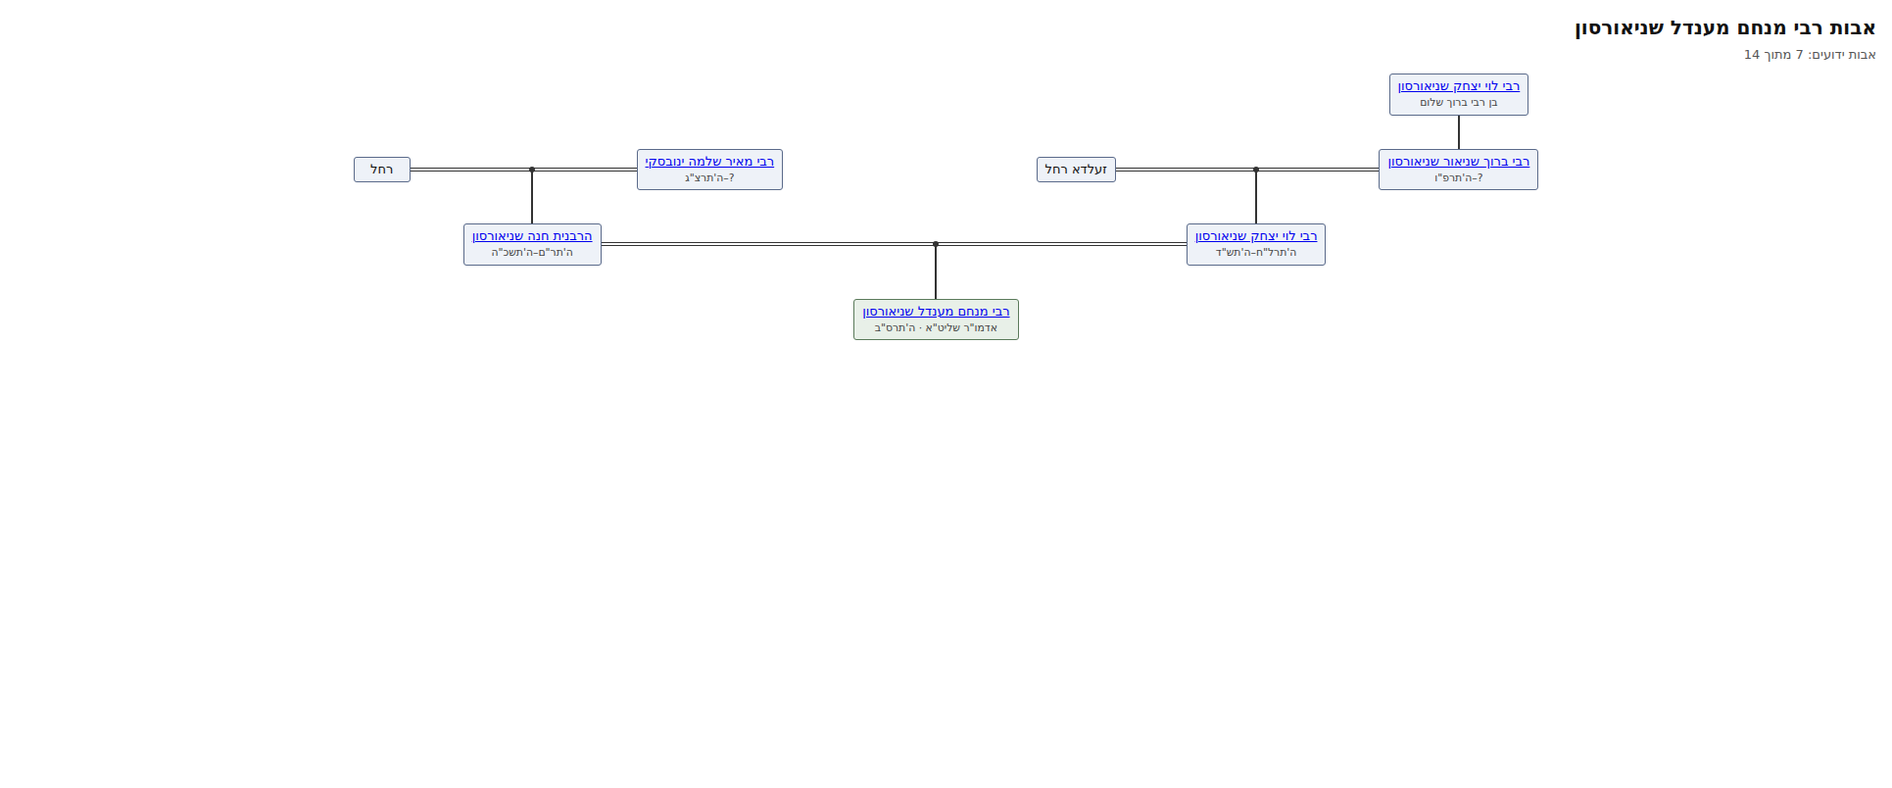
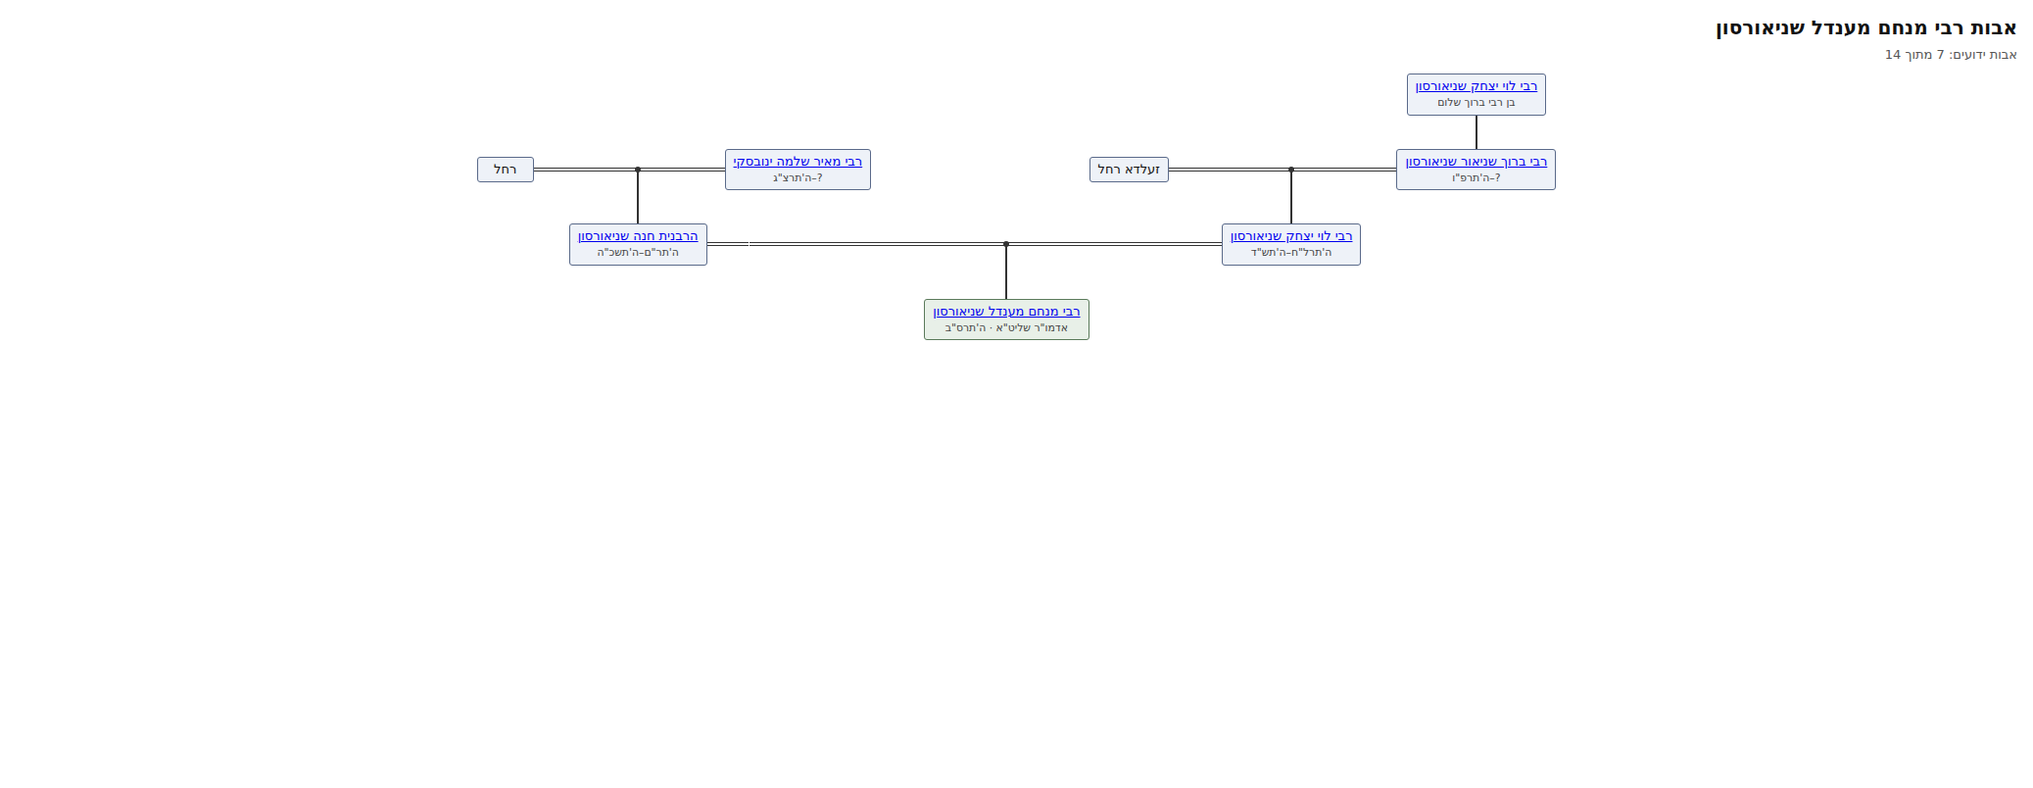
גאומטריית מרצפות לפי קוד תבנית:עץ משפחה
- תיבת טקסט תופסת 3 מרצפות והקווים מתחברים למרצפת האמצעית
- מפת הסמלים המלאה מקוד התבנית: ! - ~ ד ז ^ + ) ( . , ' `
- מספר ילדים זוגי: הצומת בין שני האמצעיים (^) במקום זרוע מיותרת
- זוג: A |ד| B כמו בתיעוד; עץ אבות עם ~ בין ההורים
- תצוגה מקדימה עם תיבות ברוחב 3 מרצפות; בדיקות מעודכנות

Claude-Session: https://claude.ai/code/session_017HqCkdqQ3tgQfGuff3kC6e

diff --git a/chabadtrees/layout.py b/chabadtrees/layout.py
@@ -59,7 +59,7 @@ class Chart:
 
     def put(self, row: int, col: int, cell: Cell) -> None:
         self.cells[(row, col)] = cell
-        self.width = max(self.width, col + 1)
+        self.width = max(self.width, col + (2 if cell.kind == "box" else 1))
         self.height = max(self.height, row + 1)
 
 
@@ -182,6 +182,7 @@ def layout_forest(roots: list[TreeNode], box_ids: dict, gap: int = 1, spouse_sty
                 chart.add_line(r, c + col, cell.dirs)
             else:
                 chart.put(r, c + col, cell)
+        chart.width = max(chart.width, col + block.width)
         col += block.width + gap
     return chart
 
@@ -213,40 +214,50 @@ def _box_id(box_ids: dict, chart: Chart, person: str, role: str, node: TreeNode)
     return bid
 
 
+BOX_W = 3   # תיבת טקסט = 3 מרצפות; הקווים מתחברים למרצפת האמצעית
+
+
 def _block(node: TreeNode, conn_rows: dict[int, int], box_ids: dict, chart: Chart, spouse_boxes: bool = True,
            spouse_boxes_below_root: bool = False) -> Block:
-    """בלוק של אדם: שורת בני הזוג, שורות החיבור, ובלוקי הילדים.
+    """בלוק של אדם, במרצפות: שורת בני הזוג, שורות החיבור, ובלוקי הילדים.
 
-    קופסאות בני זוג: ``A |~|ד|~| B`` (כמו באתר). בלי קופסאות (inline) – רק הקופסה של האדם, והילדים
-    יורדים ממנה ישירות. הצומת/הקופסה ממוקמים בדיוק מעל הילד האמצעי, כך שתא החיבור הוא ``+``
-    (או ``!`` לילד יחיד) ואין צורך בסמלי T שלא אומתו.
+    זוג: ``A |ד| B`` (כמו בתיעוד התבנית); בלי קופסאות (inline) – רק הקופסה של האדם.
+    הצומת ממוקם מעל הילד האמצעי (מספר אי-זוגי → ``+``; זוגי → ``^`` בין שני האמצעיים).
     """
     spouses = [m.spouse for m in node.marriages if m.spouse]
-    partner: list[tuple[str, str | None]] = []
-    marriage_offset: dict[int, int] = {}
+    partner: list[tuple[str, str | None, int]] = []      # (kind, ref, width)
     if spouse_boxes and len(spouses) >= 2:
-        partner = [("box", spouses[0]), ("mline", None), ("marriage", None), ("mline", None), ("box", node.person),
-                   ("mline", None), ("marriage", None), ("mline", None), ("box", spouses[1])]
-        p_offset = 4
-        junction = {spouses[0]: 2, spouses[1]: 6}
+        partner = [("box", spouses[0], BOX_W), ("marriage", None, 1), ("box", node.person, BOX_W),
+                   ("marriage", None, 1), ("box", spouses[1], BOX_W)]
         extra = spouses[2:]
     elif spouse_boxes and len(spouses) == 1:
-        partner = [("box", node.person), ("mline", None), ("marriage", None), ("mline", None), ("box", spouses[0])]
-        p_offset = 0
-        junction = {spouses[0]: 2}
+        partner = [("box", node.person, BOX_W), ("marriage", None, 1), ("box", spouses[0], BOX_W)]
         extra = []
     else:
-        partner = [("box", node.person)]
-        p_offset = 0
-        junction = {}
+        partner = [("box", node.person, BOX_W)]
         extra = []
-    for sp in extra:  # נישואין שלישיים ואילך
-        partner += [("mline", None), ("marriage", None), ("mline", None), ("box", sp)]
-        junction[sp] = len(partner) - 3
+    for sp in extra:
+        partner += [("marriage", None, 1), ("box", sp, BOX_W)]
+    # מיקומי מרכז (במרצפות, יחסית לתחילת השורה); כל צומת שייך לבן הזוג שסמוך לו
+    p_offset = 0
+    junction: dict[str, int] = {}
+    tile = 0
+    for k, (kind, ref, w) in enumerate(partner):
+        if kind == "box" and ref == node.person:
+            p_offset = tile + 1
+        elif kind == "marriage":
+            prev_ref = partner[k - 1][1] if k > 0 and partner[k - 1][0] == "box" else None
+            next_ref = partner[k + 1][1] if k + 1 < len(partner) and partner[k + 1][0] == "box" else None
+            owner = prev_ref if prev_ref not in (None, node.person) else next_ref
+            if owner is not None:
+                junction[owner] = tile
+        tile += w
+    partner_width = tile
+    marriage_offset: dict[int, int] = {}
     for i, m in enumerate(node.marriages):
         marriage_offset[i] = junction.get(m.spouse, p_offset)
 
-    # בלוקים של ילדים, לפי סדר הצמתים בשורת בני הזוג
+    # בלוקים של ילדים, לפי סדר הצמתים
     groups: dict[int, list[tuple[Block, int]]] = {}
     col = 0
     placed_any = False
@@ -267,16 +278,19 @@ def _block(node: TreeNode, conn_rows: dict[int, int], box_ids: dict, chart: Char
             placed_any = True
     children_width = col
 
-    # מיקום שורת בני הזוג: הצומת של הנישואין הראשונים-עם-ילדים בדיוק מעל הילד האמצעי שלהם
-    def median_col(blocks):
+    def anchor_for(blocks) -> int:
         cols = sorted(left + b.attach_col for b, left in blocks)
-        return cols[(len(cols) - 1) // 2]
+        n = len(cols)
+        if n % 2 == 1:
+            return cols[n // 2]
+        mid = cols[n // 2 - 1] + cols[n // 2]
+        return mid // 2 if mid % 2 == 0 else cols[n // 2 - 1]
 
     ordered = sorted(groups.items(), key=lambda kv: min(left + b.attach_col for b, left in kv[1]))
     L = 0
     if ordered:
         first_i = ordered[0][0]
-        L = median_col(ordered[0][1]) - marriage_offset[first_i]
+        L = anchor_for(ordered[0][1]) - marriage_offset[first_i]
         for (i, blocks_i), (j, blocks_j) in zip(ordered, ordered[1:]):
             if marriage_offset[j] > marriage_offset[i]:
                 last_i = max(left + b.attach_col for b, left in blocks_i)
@@ -284,18 +298,19 @@ def _block(node: TreeNode, conn_rows: dict[int, int], box_ids: dict, chart: Char
     shift = 0
     if L < 0:
         shift, L = -L, 0
-    width = max(children_width + shift, L + len(partner))
+    width = max(children_width + shift, L + partner_width)
     block_cells: dict = {}
-    for k, (kind, ref) in enumerate(partner):
-        c = L + k
+    tile = L
+    for kind, ref, w in partner:
         if kind == "box":
             role = "member" if ref == node.person else "spouse"
             bid = _box_id(box_ids, chart, ref, role, node)
-            block_cells[(0, c)] = Cell("box", ref=bid)
+            block_cells[(0, tile + 1)] = Cell("box", ref=bid)
         elif kind == "marriage":
-            block_cells[(0, c)] = Cell("marriage", dirs={"l", "r"})
+            block_cells[(0, tile)] = Cell("marriage", dirs={"l", "r"})
         else:
-            block_cells[(0, c)] = Cell("mline", dirs={"l", "r"})
+            block_cells[(0, tile)] = Cell("mline", dirs={"l", "r"})
+        tile += w
     rows_here = conn_rows[node.depth]
 
     def add_line(r, c, dirs):
@@ -307,7 +322,7 @@ def _block(node: TreeNode, conn_rows: dict[int, int], box_ids: dict, chart: Char
 
     for seg_index, (i, blocks) in enumerate(ordered):
         anchor = L + marriage_offset[i]
-        if block_cells[(0, anchor)].kind == "marriage":
+        if block_cells.get((0, anchor)) is not None and block_cells[(0, anchor)].kind == "marriage":
             block_cells[(0, anchor)].dirs.add("d")
         child_cols = sorted(left + shift + b.attach_col for b, left in blocks)
         seg_row = 1 + seg_index
@@ -392,10 +407,10 @@ def ancestor_chart(graph: dict, person: str, generations: int, box_ids: dict) ->
         top -= 1
 
     chart = Chart()
-    # עמודות: בשורה העליונה כל זוג תופס 5 תאים (A ~ ד ~ B) + רווח 2
+    # מרצפות: בשורה העליונה כל זוג תופס 7 מרצפות (A ד B) + רווח 2; מרכזי הקופסאות ב-1 וב-5
     cols: dict[str, int] = {}
     for i in range(2 ** top):
-        cols[_slot_key(top, i)] = 7 * (i // 2) + 4 * (i % 2)
+        cols[_slot_key(top, i)] = 9 * (i // 2) + 1 + 4 * (i % 2)
     for gen in range(top - 1, -1, -1):
         for i in range(2 ** gen):
             key = _slot_key(gen, i)
@@ -427,7 +442,7 @@ def ancestor_chart(graph: dict, person: str, generations: int, box_ids: dict) ->
                 pr = row_of[gen + 1]
                 if has_f and has_m:
                     mid = c
-                    for x in range(fc + 1, mc):
+                    for x in range(fc + 2, mc - 1):          # מחוץ לקופסאות (3 מרצפות כל אחת)
                         if x == mid:
                             chart.put(pr, x, Cell("marriage", dirs={"l", "r", "d"}))
                         else:

diff --git a/tests/test_all.py b/tests/test_all.py
@@ -141,44 +141,56 @@ class TestGraph(unittest.TestCase):
 
 class TestLayout(unittest.TestCase):
     def grid(self, chart):
+        from chabadtrees.render import row_tiles
         out = []
         for r in range(chart.height):
             row = []
-            for c in range(chart.width):
-                cell = chart.cells.get((r, c))
-                row.append("·" if cell is None else ("B" if cell.kind == "box" else symbol_for(cell.dirs, CFG["chart"], cell.kind)))
+            for t in row_tiles(chart, r):
+                if t is None:
+                    row.append("·")
+                elif t == "occupied" or isinstance(t, tuple):
+                    row.append("B")
+                else:
+                    row.append(symbol_for(t.dirs, CFG["chart"], t.kind))
             out.append("".join(row))
         return out
 
-    def test_single_marriage(self):
+    def test_single_marriage_odd_children(self):
         leaf = lambda n: TreeNode(n, [], 1)
         root = TreeNode("P", [Marriage("S", [leaf("a"), leaf("b"), leaf("c")])], 0)
         g = self.grid(layout_forest([root], {}))
-        # הצומת ד בדיוק מעל הילד האמצעי; הילד הראשון מקבל . והאחרון ,
-        self.assertEqual(g[0], "B~ד~B")
-        self.assertEqual(g[1], ".-+-,")
-        self.assertEqual(g[2], "B·B·B")
+        # תיבה = 3 מרצפות; הצומת ד מעל הילד האמצעי; הילד הראשון מקבל . והאחרון ,
+        self.assertEqual(g[0], "··BBBדBBB··")
+        self.assertEqual(g[1], "·.---+---,·")
+        self.assertEqual(g[2], "BBB·BBB·BBB")
 
-    def test_only_verified_symbols(self):
-        leaf = lambda n, d=1: TreeNode(n, [], d)
-        c2 = TreeNode("c2", [Marriage("s2", [leaf("g1", 2), leaf("g2", 2)])], 1)
-        root = TreeNode("P", [Marriage("S", [leaf("c1"), c2, leaf("c3"), leaf("c4")])], 0)
-        g = "".join(self.grid(layout_forest([root], {})))
-        self.assertTrue(set(g) <= set("B·!-~+.,דז"), g)
+    def test_even_children_use_t_up(self):
+        leaf = lambda n: TreeNode(n, [], 1)
+        root = TreeNode("P", [Marriage("S", [leaf("a"), leaf("b")])], 0)
+        g = self.grid(layout_forest([root], {}))
+        self.assertEqual(g[0], "BBBדBBB")
+        self.assertEqual(g[1], "·.-^-,·")
+        self.assertEqual(g[2], "BBB·BBB")
 
-    def test_two_marriages_no_crossing(self):
+    def test_two_marriages(self):
         leaf = lambda n: TreeNode(n, [], 1)
         root = TreeNode("P", [Marriage("S1", [leaf("a1"), leaf("a2")]), Marriage("S2", [leaf("b1")])], 0)
         g = self.grid(layout_forest([root], {}))
-        self.assertEqual(g[0], "B~ד~B~ד~B")
-        self.assertEqual(g[-1].count("B"), 3)
-        self.assertTrue(set("".join(g)) <= set("B·!-~+.,דז"), g)
+        self.assertEqual(g[0], "BBBדBBBדBBB")
+        self.assertEqual(g[-1].count("B"), 9)
+        self.assertTrue(set("".join(g)) <= set("B·!-~+.,ד ז^()'`"), g)
 
-    def test_vertical_symbol_is_not_pipe(self):
-        root = TreeNode("P", [Marriage(None, [TreeNode("c", [], 1)])], 0)
-        text = chart_wikitext(layout_forest([root], {}), {"persons": {"P": {"name": "P", "title": None}, "c": {"name": "c", "title": None}}, "edges": []}, CFG)
-        self.assertIn("{{עץ משפחה|!}}", text)
-        self.assertIn("{{עץ משפחה/התחלה}}", text)
+    def test_wikitext_tiles(self):
+        leaf = lambda n: TreeNode(n, [], 1)
+        root = TreeNode("P", [Marriage("S", [leaf("a"), leaf("b"), leaf("c")])], 0)
+        persons = {k: {"name": k, "title": None} for k in "PSabc"}
+        text = chart_wikitext(layout_forest([root], {}), {"persons": persons, "edges": []}, CFG)
+        lines = text.split("\n")
+        self.assertEqual(lines[0], "{{עץ משפחה/התחלה}}")
+        import re as _re
+        self.assertRegex(lines[1], r"^\{\{עץ משפחה\| \| \|B\d+\|ד\|B\d+\|")      # 2 ריקים, תיבה (3 מרצפות), ד, תיבה
+        self.assertEqual(lines[2], "{{עץ משפחה| |.|-|-|-|+|-|-|-|,}}")
+        self.assertRegex(lines[3], r"^\{\{עץ משפחה\|B\d+\| \|B\d+\| \|B\d+\|")
         self.assertNotIn("|y|", text)
 
 
@@ -241,7 +253,7 @@ class TestPipelineWithMock(MockServerMixin, unittest.TestCase):
         for line in t["wikitext"].split("\n"):
             if line.startswith("{{עץ משפחה|"):
                 cells = [c.strip() for c in wt.split_top(line[len("{{עץ משפחה|"):].rstrip("}")) if "=" not in c]
-                bad = [c for c in cells if c and not c.startswith("B") and c not in ("!", "-", "~", "+", ".", ",", "ד", "ז")]
+                bad = [c for c in cells if c and not c.startswith("B") and c not in ("!", "-", "~", "+", ".", ",", "ד", "ז", "^", "(", ")", "'", "`")]
                 self.assertEqual(bad, [], line[:80])
         self.assertNotIn("|B", t["wikitext"].split("{{עץ משפחה/התחלה}}")[0])
         anc = build_ancestor_trees(self.graph, CFG, for_person='רבי מנחם מענדל שניאורסון (אדמו"ר שליט"א)')

diff --git a/chabadtrees/render.py b/chabadtrees/render.py
@@ -123,26 +123,45 @@ def box_content(chart: Chart, bid: str, graph: dict, cfg: dict, with_refs: bool 
     return label
 
 
+def row_tiles(chart: Chart, r: int, box_w: int = 3) -> list:
+    """רשימת המרצפות בשורה: None (ריק), ("box", id) במרצפת הראשונה של תיבה, "occupied" לשתי הבאות, או Cell."""
+    tiles: list = [None] * chart.width
+    for c in range(chart.width):
+        cell = chart.cells.get((r, c))
+        if cell is None:
+            continue
+        if cell.kind == "box":
+            start = c - box_w // 2
+            for t in range(start, start + box_w):
+                if 0 <= t < chart.width:
+                    tiles[t] = "occupied"
+            tiles[max(start, 0)] = ("box", cell.ref)
+        else:
+            tiles[c] = cell
+    return tiles
+
+
 def chart_wikitext(chart: Chart, graph: dict, cfg: dict, with_refs: bool = True, existing: dict | None = None) -> str:
     ccfg = cfg["chart"]
+    box_w = ccfg.get("box_tiles", 3)
+    empty = ccfg["symbols"].get("empty", " ")
     lines = [f"{{{{{ccfg['start']}}}}}"]
     for r in range(chart.height):
+        tiles = row_tiles(chart, r, box_w)
+        last = max((i for i, t in enumerate(tiles) if t is not None), default=-1)
         cells, params = [], []
-        last_used = -1
-        for c in range(chart.width):
-            if (r, c) in chart.cells:
-                last_used = c
-        for c in range(last_used + 1):
-            cell = chart.cells.get((r, c))
-            if cell is None:
-                cells.append(" ")
-            elif cell.kind == "box":
-                cells.append(f" {cell.ref} ")
-                params.append(f"{cell.ref}={box_content(chart, cell.ref, graph, cfg, with_refs, existing)}")
-            elif cell.kind in ("marriage", "mline"):
-                cells.append(symbol_for(cell.dirs, ccfg, cell.kind))
+        for t in tiles[:last + 1]:
+            if t is None:
+                cells.append(empty)
+            elif t == "occupied":
+                continue
+            elif isinstance(t, tuple):
+                cells.append(t[1])
+                params.append(f"{t[1]}={box_content(chart, t[1], graph, cfg, with_refs, existing)}")
+            elif t.kind in ("marriage", "mline"):
+                cells.append(symbol_for(t.dirs, ccfg, t.kind))
             else:
-                cells.append(symbol_for(cell.dirs, ccfg))
+                cells.append(symbol_for(t.dirs, ccfg))
         if not cells:
             continue
         line = f"{{{{{ccfg['row']}|" + "|".join(cells)

diff --git a/chabadtrees/preview.py b/chabadtrees/preview.py
@@ -46,26 +46,36 @@ def render_html(chart: Chart, graph: dict, cfg: dict, title: str, subtitle: str 
             refs.append(r)
         return refs.index(r) + 1
 
+    from .render import row_tiles
+    box_w = cfg["chart"].get("box_tiles", 3)
     rows = []
     for r in range(chart.height):
+        tiles = row_tiles(chart, r, box_w)
+        # הטבלה עצמה LTR והמרצפות הפוכות: המרצפת הלוגית 0 מוצגת מימין, כמו בוויקי RTL
+        order = list(range(chart.width - 1, -1, -1)) if rtl else list(range(chart.width))
         tds = []
-        # הטבלה עצמה LTR והעמודות הפוכות: העמודה הלוגית 0 מוצגת מימין, כמו בוויקי RTL
-        for c in (range(chart.width - 1, -1, -1) if rtl else range(chart.width)):
-            cell = chart.cells.get((r, c))
-            if cell is None:
+        skip = 0
+        for c in order:
+            t = tiles[c]
+            if t == "occupied":
+                # ב-RTL פוגשים קודם את המרצפת האחרונה של התיבה: נפלוט את התיבה שם ונדלג על השאר
+                if rtl and (c - 1 < 0 or tiles[c - 1] != "occupied") and False:
+                    pass
+                continue
+            if isinstance(t, tuple):
+                info = chart.boxes[t[1]]
+                content = box_content(chart, t[1], graph, cfg)
+                tds.append(f'<td class="box {info["role"]}" colspan="{box_w}"><div>{_wiki_to_html(content, cfg, ref_index)}</div></td>')
+            elif t is None:
                 tds.append("<td></td>")
-            elif cell.kind == "box":
-                info = chart.boxes[cell.ref]
-                content = box_content(chart, cell.ref, graph, cfg)
-                tds.append(f'<td class="box {info["role"]}"><div>{_wiki_to_html(content, cfg, ref_index)}</div></td>')
             else:
+                cell = t
                 dirs = set(cell.dirs)
                 parts = []
                 if "u" in dirs:
                     parts.append('<div class="u"></div>')
                 if "d" in dirs:
                     parts.append('<div class="d"></div>')
-                # לוגי → פיזי: ב-RTL התא הקודם ברצף (l) נמצא פיזית מימין
                 left_phys, right_phys = ("r", "l") if rtl else ("l", "r")
                 if left_phys in dirs:
                     parts.append('<div class="pl"></div>')

diff --git a/chabadtrees/config.py b/chabadtrees/config.py
@@ -43,27 +43,26 @@ DEFAULTS: dict = {
         "gender": ["מין", "מגדר"],
     },
     # --- תבנית עץ המשפחה (הגריד) ---
-    # הסמלים אומתו מול עץ אמיתי באתר (תבנית:עץ משפחת בלוי): ! אנכי, - אופקי, ~ קו נישואין,
-    # ד צומת נישואין (עם קו למטה), ז צומת של ילד באמצע, + הצטלבות, . פינת הילד הראשון (מימין), , פינת האחרון.
-    # סמלים שלא אומתו (t_up, t_right, t_left, up_*) המחולל נמנע מהם; אם התבנית תומכת בהם – לעדכן כאן.
+    # מפת הסמלים נגזרה מקוד תבנית:עץ משפחה באתר. כל מרצפת היא תא אחד; תיבת טקסט תופסת 3 מרצפות
+    # והקווים מתחברים למרצפת האמצעית שלה. הכיוונים לוגיים: l = המרצפת הקודמת ברצף (פיזית מימין ב-RTL).
     "chart": {
         "start": "עץ משפחה/התחלה",
         "row": "עץ משפחה",
         "end": "עץ משפחה/סוף",
+        "box_tiles": 3,
         "symbols": {
             "h": "-", "v": "!", "cross": "+",
             "down_right": ".", "down_left": ",", "up_right": "'", "up_left": "`",
-            "t_up": "+", "t_down": "ז", "t_right": "+", "t_left": "+",
-            "marriage": "ד", "marriage_h": "~",
+            "t_up": "^", "t_down": "ז", "t_right": ")", "t_left": "(",
+            "marriage": "ד", "marriage_h": "~", "empty": " ",
         },
         "mirror_horizontal": False,
         "box_years": True,
         "references_tag": "<references />",
-        # בני זוג של צאצאים: "inline" = בתוך הקופסה ("שם, אשת [[בעלה]]") כמקובל באתר; "boxes" = קופסה נפרדת
+        # בני זוג של צאצאים: "inline" = בתוך הקופסה ("אשת [[בעלה]]") כמקובל באתר; "boxes" = קופסה נפרדת
         "spouse_style": "inline",
         "root_spouse_boxes": True,
         "show_sons_wives": True,
-        # מילים לתיאור בן/בת הזוג בתוך הקופסה
         "wife_of": "אשת", "husband_label": "אשתו:",
     },
     # --- תבנית העץ לאדם אחד – שמות הפרמטרים הם ניחוש, לכיול ---
